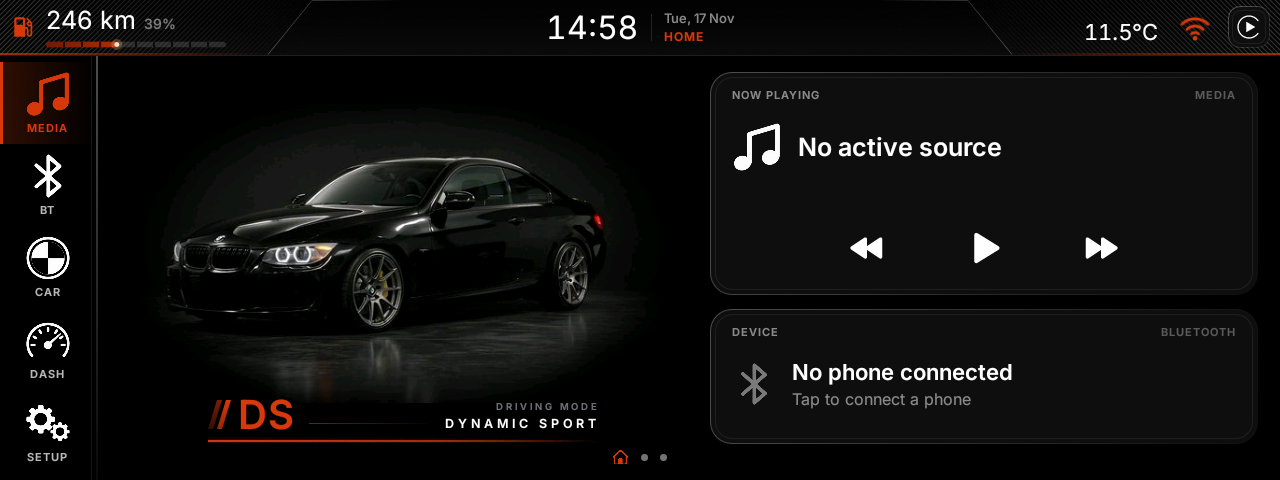
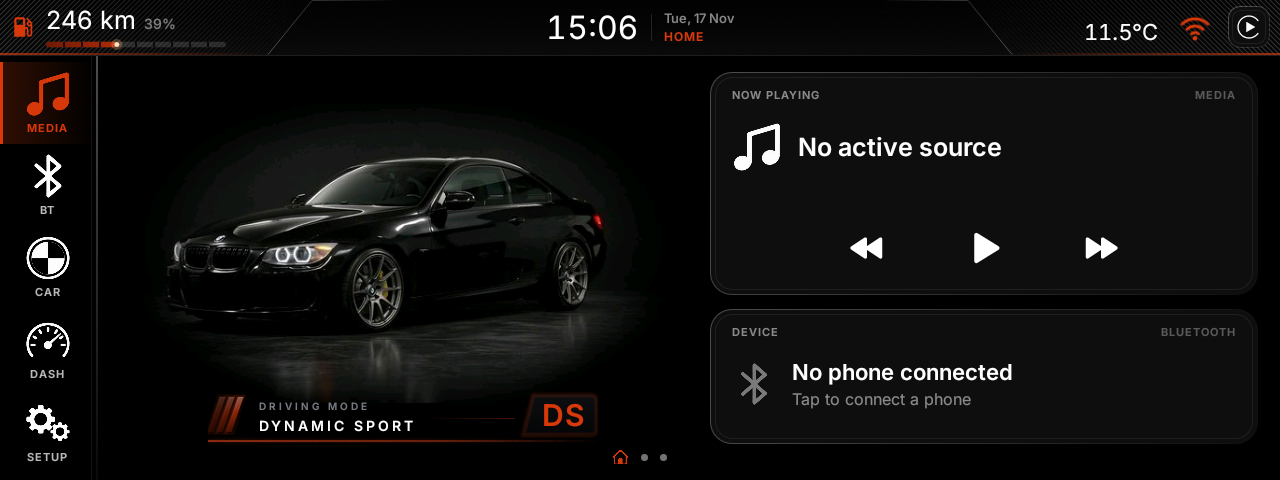
Home gear display redesign: 3D oblique bars with DRIVING MODE and the mode name beside them on the left, D/DS in a fine slanted frame on the right

Changed region(s): [[0.1562, 0.8125, 0.4688, 0.9375], [0.4375, 0.0312, 0.5, 0.0938]]

diff --git a/app/src/main/java/ro/e92/launcher/ui/widget/DriveModeStripView.kt b/app/src/main/java/ro/e92/launcher/ui/widget/DriveModeStripView.kt
@@ -5,6 +5,7 @@ import android.graphics.Canvas
 import android.graphics.Color
 import android.graphics.LinearGradient
 import android.graphics.Paint
+import android.graphics.Path
 import android.graphics.Shader
 import android.os.SystemClock
 import android.util.AttributeSet
@@ -13,13 +14,16 @@ import androidx.core.content.ContextCompat
 import ro.e92.launcher.R
 
 /**
- * Modul cutiei pe Home, sub mașină („Integrated Gear Display", ales 2026-11-17): fără card, o
- * literă mare în stânga (D sau DS), numele modului mic în dreapta, o linie fină între ele și
- * o linie jos care continuă podeaua de sub mașină, cu o strălucire discretă în culoarea modului.
+ * Modul cutiei pe Home, sub mașină („Integrated Gear Display", ales 2026-11-17), după schița
+ * aleasă de utilizator:
+ *  - în stânga, barele oblice cu aspect 3D (față în degrade, muchie luminată, umbră), apoi
+ *    „DRIVING MODE" mic și dedesubt modul (COMFORT / DYNAMIC SPORT);
+ *  - în dreapta, D sau DS într-o ramă fină cu latura stângă înclinată ca barele;
+ *  - între ele o linie fină, iar jos linia podelei, cu o strălucire discretă în culoarea modului.
  *
- * La schimbare: litera veche se stinge repede, cea nouă intră alunecând câțiva pixeli, iar
- * linia de jos se aprinde treptat de la stânga la dreapta. Desenat pe ceasul propriu, ca
- * restul animațiilor (pe unitate scara animațiilor Android poate fi 0).
+ * La schimbare: litera veche se stinge, cea nouă intră alunecând câțiva pixeli, iar liniile se
+ * aprind treptat de la stânga la dreapta. Desenat pe ceasul propriu (pe unitate scara
+ * animațiilor Android poate fi 0).
  */
 class DriveModeStripView @JvmOverloads constructor(
     context: Context,
@@ -28,27 +32,32 @@ class DriveModeStripView @JvmOverloads constructor(
 
     private val orange = ContextCompat.getColor(context, R.color.glow_core)
     private val steel = Color.rgb(170, 184, 199)
-    private val density = resources.displayMetrics.density
+    private val light = Color.rgb(230, 232, 236)
+    private val dp = resources.displayMetrics.density
 
     private val letterPaint = Paint(Paint.ANTI_ALIAS_FLAG).apply {
         typeface = context.resources.getFont(R.font.inter_semibold)
-        textSize = 40f * density
+        textSize = 30f * dp
         letterSpacing = 0.02f
+        textAlign = Paint.Align.CENTER
     }
     private val namePaint = Paint(Paint.ANTI_ALIAS_FLAG).apply {
         typeface = context.resources.getFont(R.font.inter_semibold)
-        textSize = 12.5f * density
-        letterSpacing = 0.3f
-        textAlign = Paint.Align.RIGHT
+        textSize = 14f * dp
+        letterSpacing = 0.22f
     }
     private val kickerPaint = Paint(Paint.ANTI_ALIAS_FLAG).apply {
         typeface = context.resources.getFont(R.font.inter_semibold)
-        textSize = 9.5f * density
+        textSize = 10f * dp
         letterSpacing = 0.3f
-        textAlign = Paint.Align.RIGHT
-        color = Color.rgb(110, 114, 121)
+        color = Color.rgb(118, 122, 129)
     }
-    private val linePaint = Paint(Paint.ANTI_ALIAS_FLAG)
+    private val fill = Paint(Paint.ANTI_ALIAS_FLAG)
+    private val stroke = Paint(Paint.ANTI_ALIAS_FLAG).apply {
+        style = Paint.Style.STROKE
+        strokeJoin = Paint.Join.ROUND
+    }
+    private val path = Path()
 
     private val kicker = context.getString(R.string.home_driving_mode)
 
@@ -73,98 +82,185 @@ class DriveModeStripView @JvmOverloads constructor(
         val t = if (changedAt == 0L) ANIM_MS else (SystemClock.uptimeMillis() - changedAt).toFloat()
 
         val accent = if (now) orange else steel
-        val lineY = h - 3f * density
-
-        // ---- linia de jos: se aprinde de la stânga la dreapta, cu strălucire ----
+        val lineY = h - 3f * dp
         val lit = ease(t, 120f, 520f)
+        val inT = ease(t, 90f, 320f)
+        val slide = (1f - inT) * 10f * dp
+
+        // ---- linia podelei: se aprinde de la stânga la dreapta, cu strălucire ----
         drawFloorLine(canvas, w, lineY, steel, if (now) 0.18f else 0.42f, 1f)
         drawFloorLine(canvas, w, lineY, accent, if (now) 1f else 0.6f, lit)
 
-        // ---- litera: cea veche se stinge, cea nouă intră alunecând ----
-        val letterBase = lineY - 12f * density
+        // ---- stânga: barele 3D ----
+        val barTop = lineY - 44f * dp
+        val barBottom = lineY - 9f * dp
+        drawBars(canvas, barTop, barBottom, if (now) orange else steel, now, inT)
+
+        // ---- lângă bare: DRIVING MODE și modul ----
+        val tx = BARS_W * dp + 12f * dp
+        canvas.drawText(kicker, tx, barTop + 13f * dp, kickerPaint)
+        val name = context.getString(if (now) R.string.mode_strip_sport else R.string.mode_strip_drive)
+        namePaint.color = withAlpha(if (now) Color.WHITE else light, 0.35f + 0.65f * inT)
+        canvas.drawText(name, tx + slide * 0.5f, barBottom - 1f * dp, namePaint)
+        val textEnd = tx + maxOf(namePaint.measureText(name), kickerPaint.measureText(kicker))
+
+        // ---- dreapta: D / DS într-o ramă fină, cu latura stângă înclinată ----
+        val letter = if (now) "DS" else "D"
+        val boxW = BOX_W * dp
+        val boxRight = w - 1f * dp
+        val boxLeft = boxRight - boxW
+        val boxTop = barTop - 2f * dp
+        val boxBottom = barBottom + 3f * dp
+        drawBox(canvas, boxLeft, boxTop, boxRight, boxBottom, accent, now, lit)
+
+        val letterBase = (boxTop + boxBottom) / 2f + letterPaint.textSize * 0.36f
+        val letterX = boxLeft + boxW * 0.56f
         val old = previous
         if (old != null && t < 160f) {
-            letterPaint.color = withAlpha(if (old) orange else Color.rgb(230, 232, 236), 1f - t / 160f)
-            canvas.drawText(if (old) "DS" else "D", LETTER_X * density, letterBase, letterPaint)
+            letterPaint.color = withAlpha(if (old) orange else light, 1f - t / 160f)
+            canvas.drawText(if (old) "DS" else "D", letterX, letterBase, letterPaint)
         }
-        val inT = ease(t, 90f, 320f)
-        val slide = (1f - inT) * 11f * density
+        letterPaint.color = withAlpha(if (now) orange else light, inT)
+        canvas.drawText(letter, letterX + slide, letterBase, letterPaint)
 
-        // ---- cele două bare oblice din față: gri la Comfort, portocalii la Sport ----
-        drawSlashes(canvas, letterBase, if (now) orange else steel, inT, slide)
-
-        letterPaint.color = withAlpha(if (now) orange else Color.rgb(230, 232, 236), inT)
-        val letter = if (now) "DS" else "D"
-        canvas.drawText(letter, LETTER_X * density + slide, letterBase, letterPaint)
-
-        // ---- dreapta: DRIVING MODE mic, dedesubt numele modului ----
-        val name = context.getString(if (now) R.string.mode_strip_sport else R.string.mode_strip_drive)
-        val nameBase = letterBase - 1f * density
-        kickerPaint.alpha = 255
-        canvas.drawText(kicker, w, nameBase - namePaint.textSize - 6f * density, kickerPaint)
-        namePaint.color = withAlpha(if (now) Color.WHITE else steel, 0.4f + 0.6f * inT)
-        canvas.drawText(name, w, nameBase, namePaint)
-
-        // ---- linia fină dintre literă și text ----
-        val letterEnd = LETTER_X * density + letterPaint.measureText(if (now) "DS" else "D") + 14f * density
-        val textStart = w - namePaint.measureText(name) - 16f * density
-        if (textStart > letterEnd) {
-            val midY = nameBase - namePaint.textSize * 0.36f
-            linePaint.shader = LinearGradient(
-                letterEnd, 0f, textStart, 0f,
-                withAlpha(accent, 0.55f), withAlpha(accent, 0.05f), Shader.TileMode.CLAMP
+        // ---- linia fină dintre text și ramă ----
+        val from = textEnd + 14f * dp
+        val to = boxLeft - 8f * dp
+        if (to > from) {
+            val midY = (barTop + barBottom) / 2f + 4f * dp
+            fill.shader = LinearGradient(
+                from, 0f, to, 0f,
+                withAlpha(accent, 0.05f), withAlpha(accent, 0.55f), Shader.TileMode.CLAMP
             )
-            canvas.drawRect(letterEnd, midY - 0.5f * density, letterEnd + (textStart - letterEnd) * lit, midY + 0.5f * density, linePaint)
-            linePaint.shader = null
+            canvas.drawRect(from, midY - 0.5f * dp, from + (to - from) * lit, midY + 0.5f * dp, fill)
+            fill.shader = null
         }
 
         if (t < ANIM_MS) postInvalidateOnAnimation()
     }
 
-    /** Două paralelograme înclinate, ca „//", înălțimea literei; al doilea mai stins. */
-    private fun drawSlashes(canvas: Canvas, base: Float, color: Int, a: Float, slide: Float) {
-        val top = base - 29f * density
-        val skew = 9f * density
-        val bar = 5f * density
-        for (i in 0..1) {
-            val x = slide + i * (bar + 4f * density)
-            slashPath.reset()
-            slashPath.moveTo(x + skew, top)
-            slashPath.lineTo(x + skew + bar, top)
-            slashPath.lineTo(x + bar, base)
-            slashPath.lineTo(x, base)
-            slashPath.close()
-            slashPaint.shader = LinearGradient(
-                0f, top, 0f, base,
-                withAlpha(color, a * (if (i == 0) 0.55f else 1f)),
-                withAlpha(color, a * (if (i == 0) 0.25f else 0.7f)),
-                Shader.TileMode.CLAMP
+    /**
+     * Trei bare înclinate, ca niște lamele de metal: o umbră decalată în spate, fața în degrade
+     * (deschisă sus, închisă jos), o muchie luminată pe latura stângă și un luciu sus. La Sport
+     * mai au un halou portocaliu. Prima e cea mai stinsă, ultima cea mai aprinsă.
+     */
+    private fun drawBars(canvas: Canvas, top: Float, bottom: Float, color: Int, glow: Boolean, a: Float) {
+        val skew = 12f * dp
+        val bar = 5.5f * dp
+        val gap = 3.5f * dp
+        for (i in 0..2) {
+            val x = i * (bar + gap)
+            val strength = a * (if (glow) 0.62f + 0.19f * i else 0.45f + 0.275f * i)
+
+            // Haloul (doar la Sport): același paralelogram, mai lat și foarte transparent.
+            if (glow) {
+                for ((grow, alpha) in BAR_GLOW) {
+                    bar(x - grow * dp, top - grow * dp, bottom + grow * dp, bar + 2 * grow * dp, skew)
+                    fill.color = withAlpha(color, alpha * strength)
+                    canvas.drawPath(path, fill)
+                }
+            }
+            // Umbra din spate, decalată spre dreapta-jos.
+            bar(x + 1.4f * dp, top + 1.4f * dp, bottom + 1.4f * dp, bar, skew)
+            fill.color = Color.argb((150 * strength).toInt(), 0, 0, 0)
+            canvas.drawPath(path, fill)
+
+            // Fața.
+            bar(x, top, bottom, bar, skew)
+            fill.shader = LinearGradient(
+                0f, top, 0f, bottom,
+                intArrayOf(
+                    withAlpha(blend(color, Color.WHITE, 0.45f), strength),
+                    withAlpha(color, strength),
+                    withAlpha(blend(color, Color.BLACK, 0.55f), strength)
+                ),
+                floatArrayOf(0f, 0.45f, 1f), Shader.TileMode.CLAMP
             )
-            canvas.drawPath(slashPath, slashPaint)
+            canvas.drawPath(path, fill)
+            fill.shader = null
+
+            // Muchia luminată din stânga și luciul de sus.
+            stroke.strokeWidth = 0.9f * dp
+            stroke.shader = LinearGradient(
+                0f, top, 0f, bottom,
+                withAlpha(Color.WHITE, 0.75f * strength), withAlpha(Color.WHITE, 0.05f), Shader.TileMode.CLAMP
+            )
+            canvas.drawLine(x + skew, top, x, bottom, stroke)
+            canvas.drawLine(x + skew, top, x + skew + bar, top, stroke)
+            stroke.shader = null
         }
     }
 
-    private val slashPaint = Paint(Paint.ANTI_ALIAS_FLAG)
-    private val slashPath = android.graphics.Path()
+    /** Pune în [path] un paralelogram înclinat spre dreapta, cu baza la [x]. */
+    private fun bar(x: Float, top: Float, bottom: Float, width: Float, skew: Float) {
+        path.reset()
+        path.moveTo(x + skew, top)
+        path.lineTo(x + skew + width, top)
+        path.lineTo(x + width, bottom)
+        path.lineTo(x, bottom)
+        path.close()
+    }
+
+    /** Rama literei: latura stângă înclinată ca barele, colțurile din dreapta ușor rotunjite. */
+    private fun drawBox(canvas: Canvas, l: Float, t: Float, r: Float, b: Float, accent: Int, glow: Boolean, lit: Float) {
+        val skew = 10f * dp
+        val rad = 6f * dp
+        path.reset()
+        path.moveTo(l + skew, t)
+        path.lineTo(r - rad, t)
+        path.quadTo(r, t, r, t + rad)
+        path.lineTo(r, b - rad)
+        path.quadTo(r, b, r - rad, b)
+        path.lineTo(l, b)
+        path.close()
+
+        fill.shader = LinearGradient(
+            0f, t, 0f, b,
+            Color.argb(200, 28, 30, 35), Color.argb(200, 10, 11, 14), Shader.TileMode.CLAMP
+        )
+        canvas.drawPath(path, fill)
+        fill.shader = null
+
+        if (glow) {
+            stroke.strokeWidth = 5f * dp
+            stroke.color = withAlpha(accent, 0.12f * lit)
+            canvas.drawPath(path, stroke)
+        }
+        stroke.strokeWidth = 1f * dp
+        stroke.shader = LinearGradient(
+            l, t, r, b,
+            withAlpha(if (glow) accent else Color.WHITE, if (glow) 0.95f else 0.5f),
+            withAlpha(if (glow) accent else Color.WHITE, if (glow) 0.35f else 0.12f),
+            Shader.TileMode.CLAMP
+        )
+        canvas.drawPath(path, stroke)
+        stroke.shader = null
+    }
 
     /** O linie care se stinge spre capete, cu un halou din câteva linii mai groase și mai slabe. */
     private fun drawFloorLine(canvas: Canvas, w: Float, y: Float, color: Int, strength: Float, reveal: Float) {
         if (reveal <= 0f || strength <= 0f) return
         val right = w * reveal
         for ((thick, a) in GLOW) {
-            linePaint.shader = LinearGradient(
+            fill.shader = LinearGradient(
                 0f, 0f, w, 0f,
                 intArrayOf(withAlpha(color, a * strength), withAlpha(color, a * strength * 0.7f), Color.TRANSPARENT),
                 floatArrayOf(0f, 0.6f, 1f), Shader.TileMode.CLAMP
             )
-            val half = thick * density / 2f
-            canvas.drawRect(0f, y - half, right, y + half, linePaint)
+            val half = thick * dp / 2f
+            canvas.drawRect(0f, y - half, right, y + half, fill)
         }
-        linePaint.shader = null
+        fill.shader = null
     }
 
     private fun withAlpha(color: Int, a: Float) =
         Color.argb((255 * a.coerceIn(0f, 1f)).toInt(), Color.red(color), Color.green(color), Color.blue(color))
+
+    private fun blend(a: Int, b: Int, t: Float) = Color.rgb(
+        (Color.red(a) + (Color.red(b) - Color.red(a)) * t).toInt(),
+        (Color.green(a) + (Color.green(b) - Color.green(a)) * t).toInt(),
+        (Color.blue(a) + (Color.blue(b) - Color.blue(a)) * t).toInt()
+    )
 
     private fun ease(now: Float, from: Float, length: Float): Float {
         val x = ((now - from) / length).coerceIn(0f, 1f)
@@ -173,9 +269,13 @@ class DriveModeStripView @JvmOverloads constructor(
 
     private companion object {
         const val ANIM_MS = 700f
-        /** De unde începe litera, după cele două bare oblice (dp). */
-        const val LETTER_X = 30f
+        /** Lățimea grupului de bare (dp), de unde începe textul. */
+        const val BARS_W = 38f
+        /** Lățimea ramei literei (dp): încape și DS. */
+        const val BOX_W = 74f
         /** Grosimea în dp și opacitatea fiecărui strat al liniei de jos: miezul, apoi haloul. */
         val GLOW = listOf(8f to 0.06f, 4.5f to 0.12f, 1.4f to 0.95f)
+        /** Haloul barelor la Sport: cât se lățesc (dp) și cât de opace sunt. */
+        val BAR_GLOW = listOf(3f to 0.08f, 1.5f to 0.16f)
     }
 }
